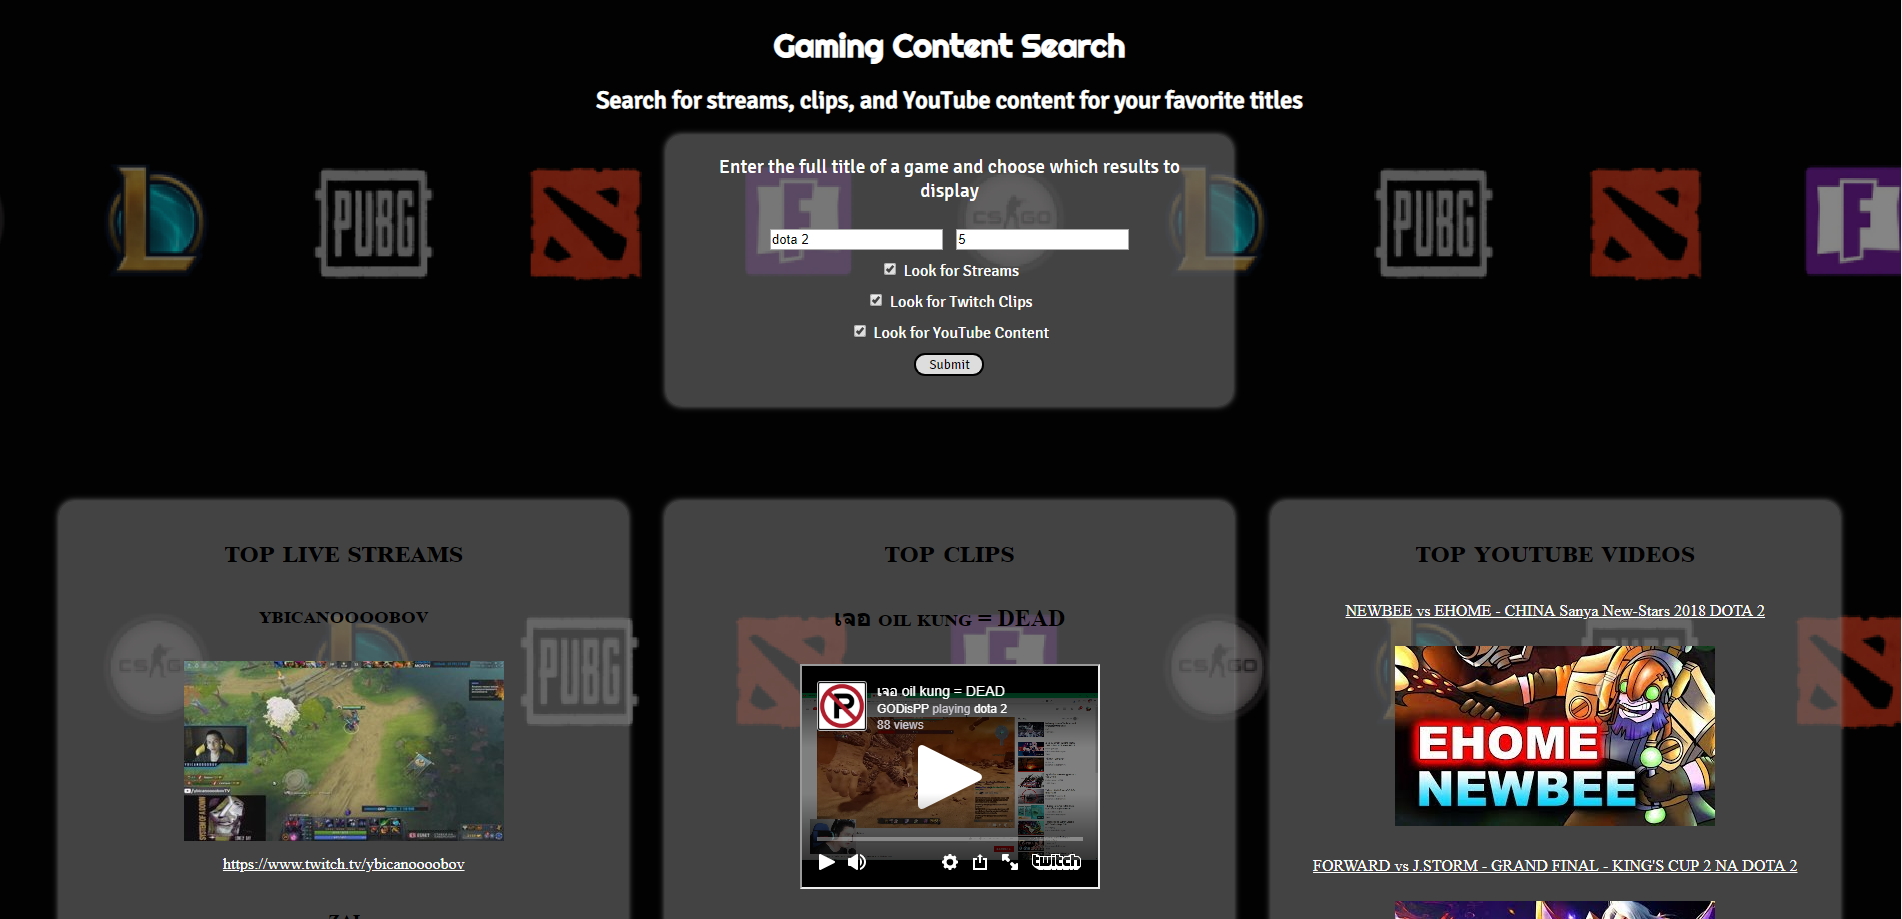
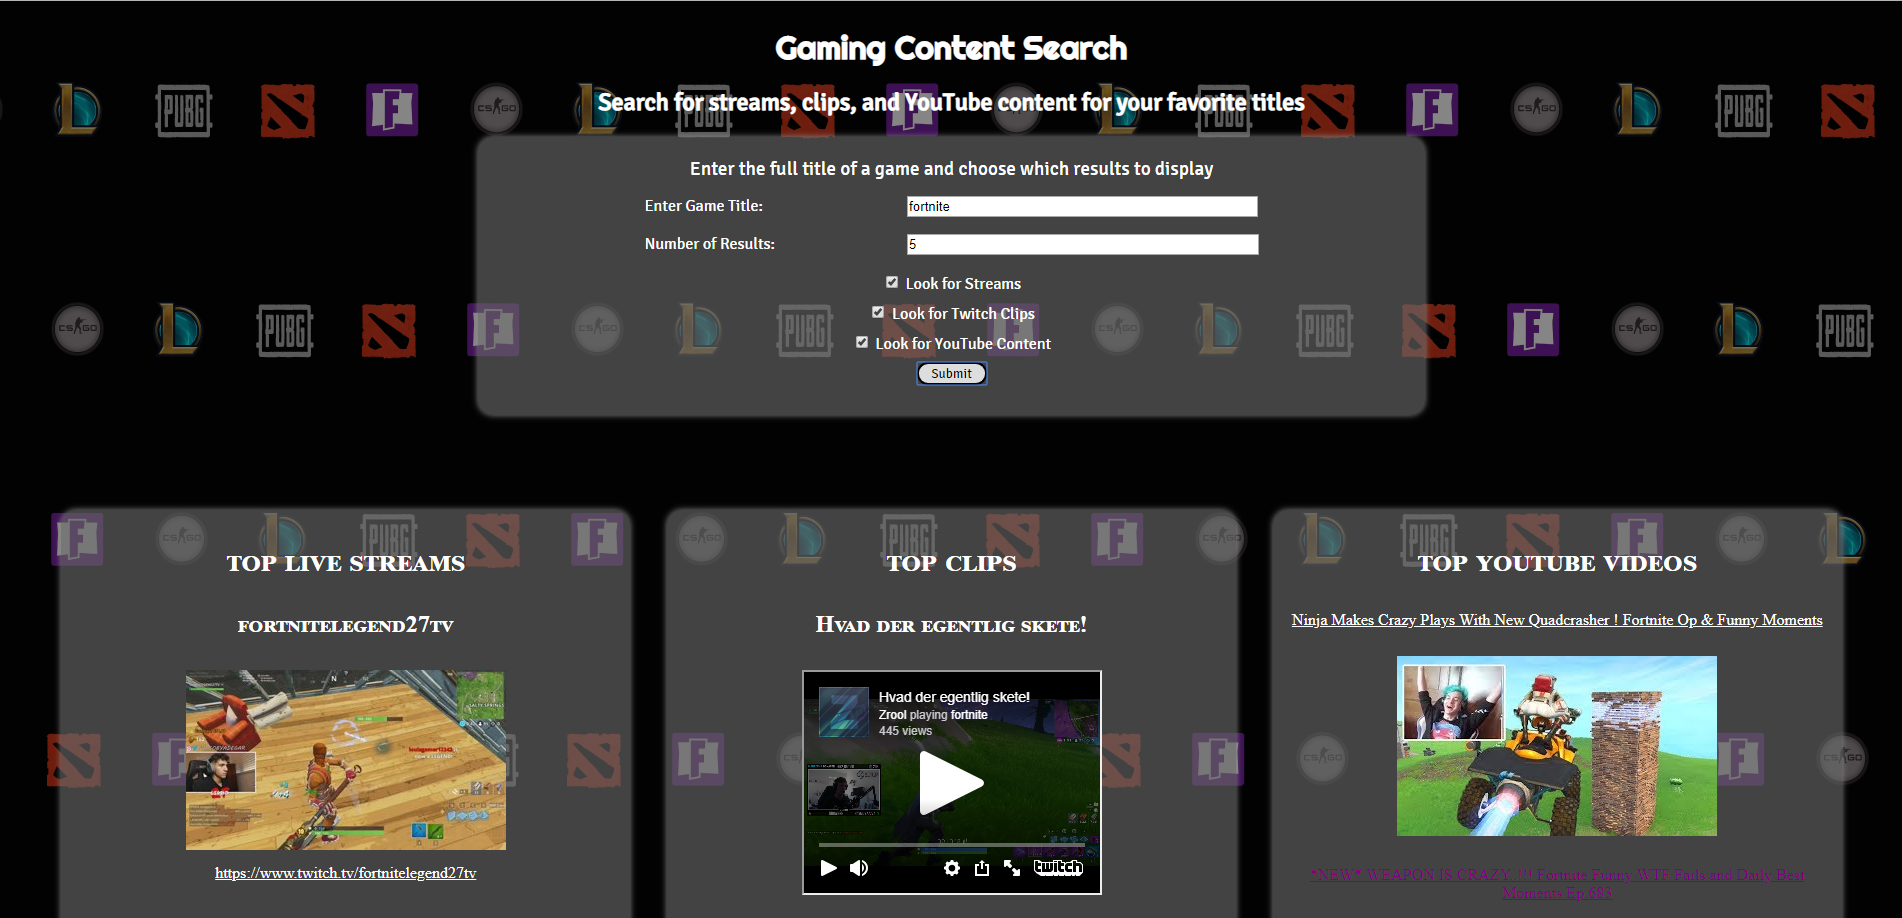
css style changes, added anchors to images, new ss

diff --git a/styles.css b/styles.css
@@ -3,7 +3,7 @@
 }
 
 html {
-	margin: auto;
+	margin: 0;
 	text-align: center;
 	padding: 5px;
 }
@@ -36,6 +36,7 @@ h3, h4 {
 	margin-right: auto;
 	text-align: center;
 	display: block;
+	color: white;
 }
 
 .section-title {
@@ -59,7 +60,7 @@ main {
 	border: .01px solid none;
 	border-radius: 15px;
 	box-shadow: 0 0 10px #888888;
-	width: 30%;
+	width: 50%;
 	margin-right: auto;
 	margin-left: auto;
 	margin-bottom: 5%;
@@ -67,6 +68,7 @@ main {
 
 legend {
 	font-size: 1.2em;
+	margin-bottom: 1%;
 }
 
 ul {
@@ -96,12 +98,23 @@ a:active, a:visited {
 	justify-content: center;
 }
 
+.search-container, .num-container {
+	display: flex;
+	justify-content: space-evenly;
+	margin-bottom: 2%;
+}
+
+.search-label {
+	width: 130.39px;
+	text-align: left;
+}
+
 .js-search {
-	margin-right: 1%;
+	width: 40%;
 }
 
 .js-max-results {
-	margin-left: 1%;
+	width: 40%;
 }
 
 .yt-title, .yt-li {
@@ -128,8 +141,8 @@ a:active, a:visited {
 }
 
 .chk-box-container, .checkbox-block {
-	margin-top: 2%;
-	margin-bottom: 2%;
+	margin-top: 1%;
+	margin-bottom: 1%;
 }
 
 .js-submit {
@@ -175,8 +188,8 @@ a:active, a:visited {
 		width: 70%;
 	}
 
-	.js-search, .js-max-results {
-		margin: 1.5% auto 1.5% auto;
+	main {
+		width: 70%;
 	}
 }
 
@@ -213,10 +226,6 @@ a:active, a:visited {
 		padding-right: 1.04166666%;
 	}
 
-	input {
-		margin-bottom: 5%;
-	}
-
 	input[type=checkbox] {
 		font-size: 0.5em;
 		text-align: left;
@@ -231,11 +240,31 @@ a:active, a:visited {
 	}
 
 	.js-search, .js-max-results {
-		margin-top: 1.5%;
-		margin-bottom: 1.5%;
+		width: 50%;
+		margin: 0 0 1.5% 0;
 	}
 
 	.results-container-1, .results-container-2, .results-container-3 {
 		margin-top: 5%;
+	}
+
+	.search-container, .num-container {
+		margin-bottom: .5%;
+	}
+
+
+}
+
+/*very minor stylistic tweaks for smaller viewports*/
+
+@media only screen and (max-width: 600px) {
+	.js-search, .js-max-results {
+		width: 85%;
+		margin: 0 0 1.5% 0;
+	}
+
+	.search-container, .num-container {
+		display: block;
+		margin-bottom: 0;
 	}
 }

diff --git a/main.js b/main.js
@@ -10,7 +10,7 @@ const twitchApiKey = "tszgw747t4ad80nlczn9t658cma89p";
 	return queryTerm.join('&');
 }
 
-let maxResults = 10;
+let maxResults = 5;
 
 //needed separate display functions in order to achieve the separate search/results parameters and their differing layouts
 //display fetch stream data results function
@@ -27,7 +27,7 @@ function displayStreams(responseJson, maxResults) {
 		$('.stream-results-list').append(`
 			<li class="stream-result">
 				<h4>${responseJson.streams[i].channel.name}</h4>
-				<img class="stream-preview" src="${responseJson.streams[i].preview.medium}">
+				<a href="${responseJson.streams[i].channel.url}"><img class="stream-preview" src="${responseJson.streams[i].preview.medium}"></a>
 				<a class="stream-url" href="${responseJson.streams[i].channel.url}">${responseJson.streams[i].channel.url}</a>
 			</li>
 			`)
@@ -77,7 +77,7 @@ function displayYouTubeResults(responseJson, maxResults) {
 		$('.yt-results-list').append(`
 			<li class="yt-li">
 				<a class="yt-title" href="https://www.youtube.com/watch?v=${responseJson.items[i].id.videoId}">${responseJson.items[i].snippet.title}</a>
-				<img class="yt-thumbnail" src="${responseJson.items[i].snippet.thumbnails.medium.url}">
+				<a href="https://www.youtube.com/watch?v=${responseJson.items[i].id.videoId}"><img class="yt-thumbnail" src="${responseJson.items[i].snippet.thumbnails.medium.url}"></a>
 			</li>
 			`)
 		$('.results-container-3').removeClass('hidden');

diff --git a/index.html b/index.html
@@ -19,8 +19,14 @@
 		<form id="js-form">
 			<fieldset>
 				<legend role="legend">Enter the full title of a game and choose which results to display</legend>
-				<input type="text" class="js-search" placeholder="Game title..." required>
-				<input type="number" class="js-max-results" value="10" placeholder="Number of results..." value="10" min="0" required>
+					<div class="search-container">
+						<label for="search-input" class="search-label">Enter Game Title:</label>
+						<input type="text" class="js-search" placeholder="Game title..." required>
+					</div>
+					<div class="num-container">
+						<label for="max-results" class="num-label">Number of Results:</label>
+						<input type="number" name="max-results" class="js-max-results" value="5" placeholder="Number of results..." min="1" max="25">
+					</div>
 				<div class="chk-box-container">		
 					<label class="checkbox-block">	
 						<input type="checkbox" class="js-checkbox-1" value="streams"> Look for Streams
